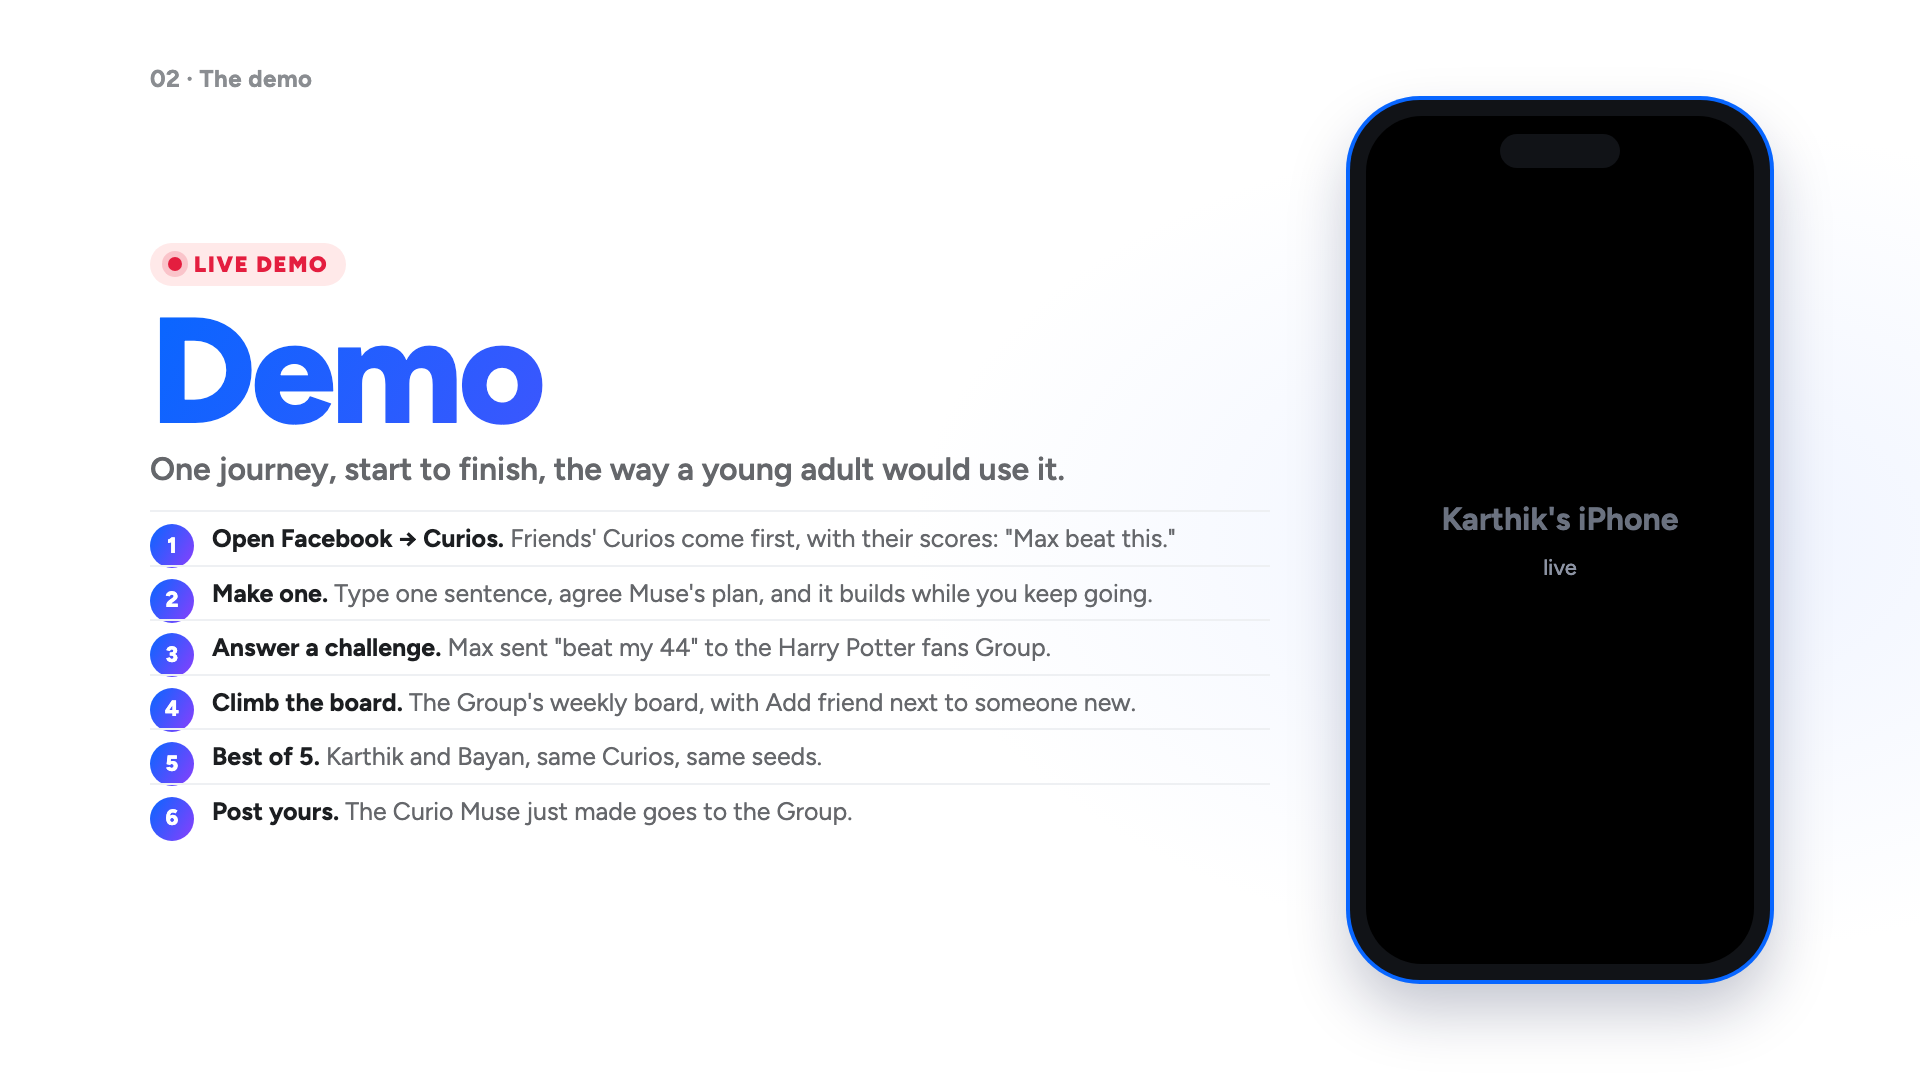
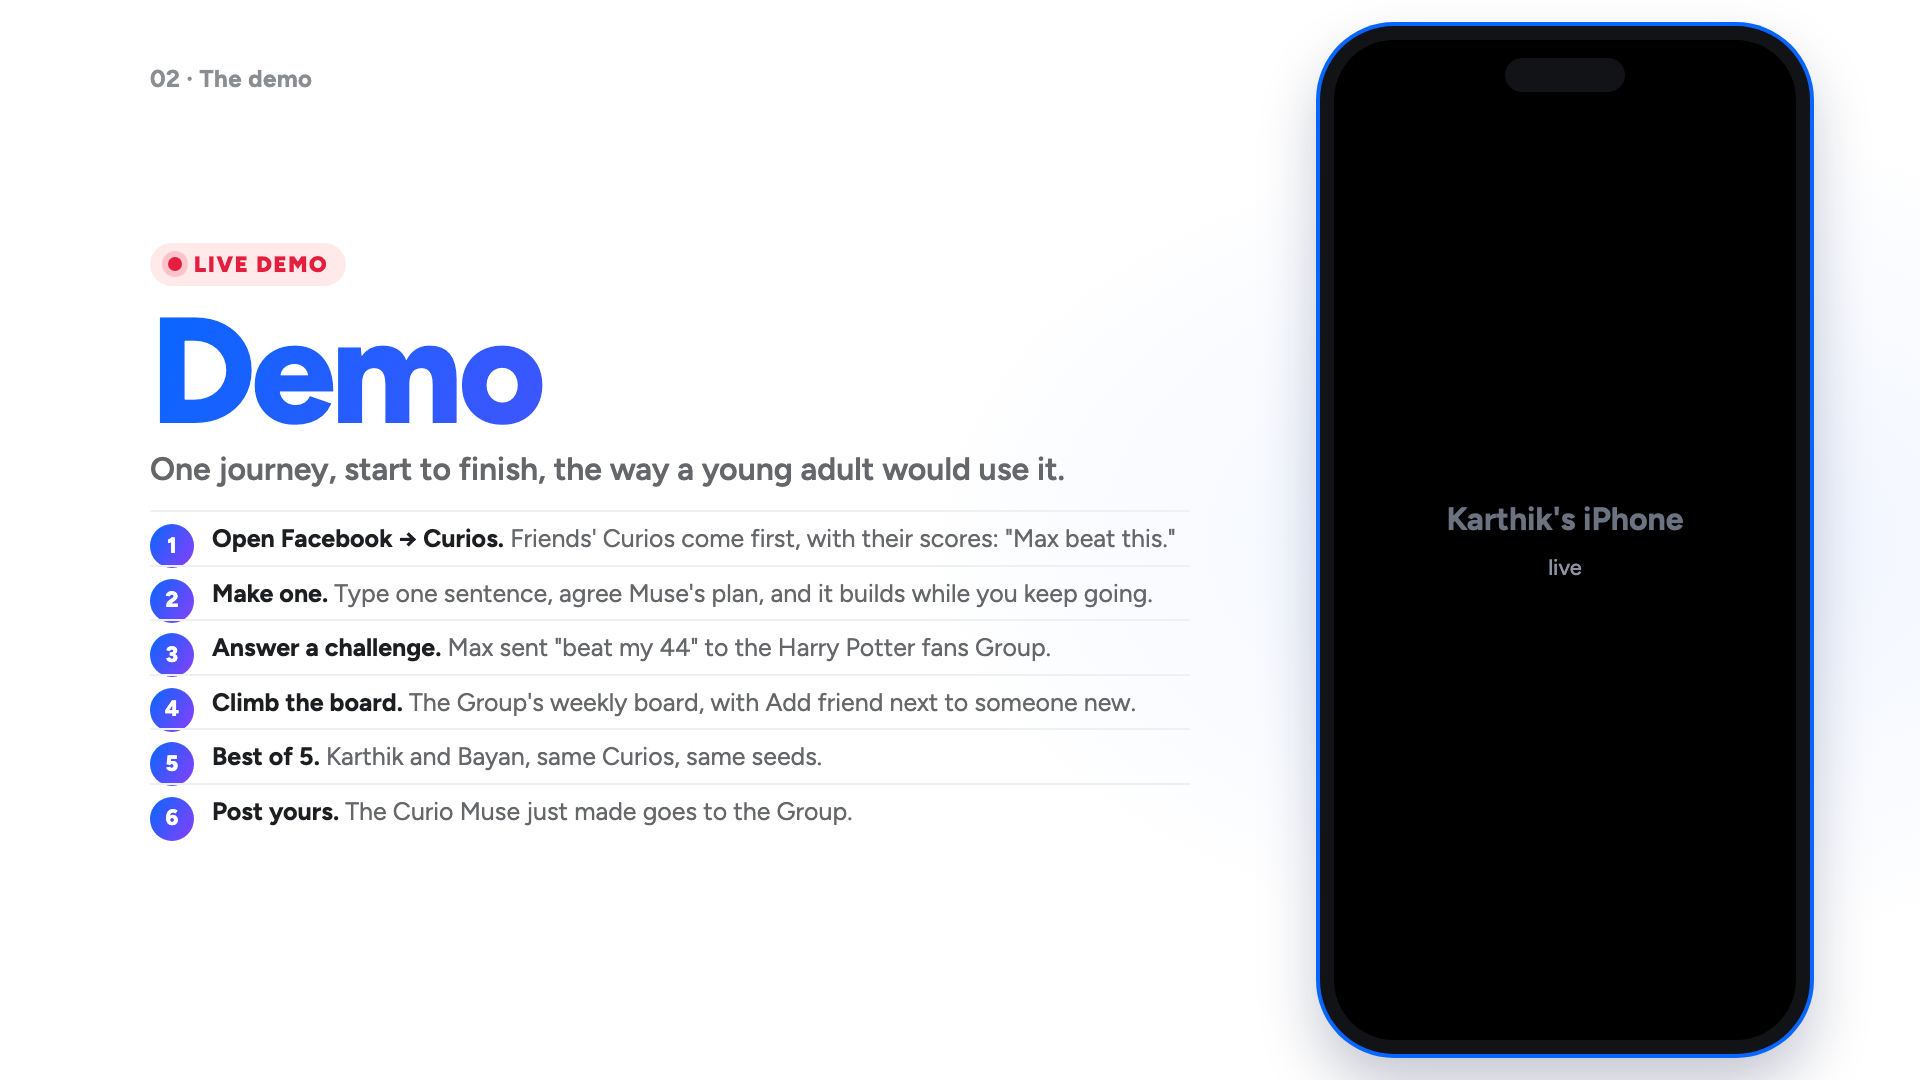
Slides 10 and 11: phones nearly full slide height (screens 462x1000) so the live feed is readable

Changed region(s): [[0.6875, 0.0, 0.9688, 1.0], [0.75, 0.4583, 0.875, 0.4889]]

diff --git a/docs/pr/slides/deck.html b/docs/pr/slides/deck.html
@@ -667,6 +667,23 @@ h2 { font-size: 96px; line-height: 1.04; font-weight: 800; letter-spacing: -.025
 .collab .bo5 { width: 96px; padding-top: 220px; } .collab .crow { gap: 34px; } .collab .cgrid { column-gap: 20px; }
 .collab .cf { padding: 12px 16px; } .collab .cf b { font-size: 24px; } .collab .cf p { font-size: 19px; } .collab .cf .chip { font-size: 13px; }
 .collab .bo5 { width: 104px; } .collab .bo5 em { font-size: 16px; white-space: nowrap; } .collab .bo5 i { font-size: 13px; }
+
+/* phones as big as the slide allows (screen 462x1000, aspect 0.462 like the iPhone feed) */
+.demo .dph { position: absolute; right: 110px; top: 26px; }
+.dph .iph.big { width: 490px !important; height: 1028px !important; padding: 14px !important; border-radius: 74px !important; position: relative; }
+.dph .iph.big .scr { border-radius: 60px !important; }
+.demo .dsteps { flex: none; width: 1040px; }
+.collab .duo { position: absolute; right: 40px; top: 26px; }
+.collab .duo .phn { width: 490px; } .collab .duo .lp.iph { width: 490px !important; height: 1028px !important; padding: 14px !important; border-radius: 74px !important; }
+.collab .duo .iph .scr { border-radius: 60px !important; } .collab .duo .iph .di { width: 120px; height: 34px; top: 18px; }
+.collab .duo figcaption { display: none; }
+.collab .bo5 { width: 104px; padding-top: 300px; } .collab .bo5 em { white-space: normal; font-size: 16px; } .collab .bo5 i { font-size: 13px; }
+.collab .bo5 .who { font-style: normal; font-size: 15px; font-weight: 800; color: var(--ink); text-align: center; line-height: 1.15; }
+.collab .bo5 .who.a { color: var(--blue); margin-bottom: 18px; } .collab .bo5 .who.b { color: var(--violet); margin-top: 18px; }
+.collab h2 { font-size: 58px; width: 620px; line-height: 1.08; }
+.collab .crow { margin-top: 30px; } .collab .cgrid { flex: none; width: 620px; column-gap: 16px; row-gap: 10px; }
+.collab .ccol { gap: 10px; } .collab .ch { font-size: 22px; }
+.collab .cf { padding: 10px 12px; border-left-width: 6px; } .collab .cf b { font-size: 21px; } .collab .cf p { font-size: 16px; margin-top: 4px; } .collab .cf .chip { font-size: 12px; padding: 2px 7px; margin-left: 0; display: inline-block; vertical-align: 2px; }
 </style>
 </head>
 <body>
@@ -832,7 +849,7 @@ h2 { font-size: 96px; line-height: 1.04; font-weight: 800; letter-spacing: -.025
     </div>
     <div class="ccr duo">
       <figure class="phn a"><div class="lp iph"><div class="scr" id="lpscr"><i class="di"></i>Karthik<br><small>live</small></div></div><figcaption><b>Karthik</b>Karthik's phone</figcaption></figure>
-      <div class="bo5"><em>Best of 5</em><span class="r"></span><span class="r"></span><span class="r"></span><span class="r"></span><span class="r"></span><i>same Curios, same seeds</i></div>
+      <div class="bo5"><b class="who a">&larr; Karthik</b><em>Best of 5</em><span class="r"></span><span class="r"></span><span class="r"></span><span class="r"></span><span class="r"></span><i>same Curios, same seeds</i><b class="who b">Bayan &rarr;</b></div>
       <figure class="phn b"><div class="lp iph"><div class="scr" id="lpscr2"><i class="di"></i>Bayan<br><small>live</small></div></div><figcaption><b>Bayan</b>Bayan's phone</figcaption></figure>
     </div>
   </div>

diff --git a/docs/pr/demo/PHONES.md b/docs/pr/demo/PHONES.md
@@ -74,7 +74,7 @@ xcrun devicectl device install app --device <phone-udid> \
 1. Before opening Keynote: unlock both phones, plug both in, and tap **Trust** on each if asked (only the first time on a given Mac).
 2. Give Keynote camera access if macOS asks (System Settings → Privacy & Security → Camera → Keynote). An iPhone screen counts as a camera.
 3. Slide 10 has one Live Video box (Karthik's phone); slide 11 has two (Karthik's, then Bayan's). For each box: Format sidebar → Live Video → Source → pick the phone **by its name** ("Karthik-iPhone", Bayan's shows up as "iPhone"). Renaming Bayan's phone (Settings → General → About → Name) makes this harder to mix up.
-4. A full Keynote rebuild (`../slides/keynote/build.sh`) drops the Live Video boxes. Insert them again, then run `osascript ../slides/keynote/snap-phones.applescript` to snap them into the phone frames.
+4. A full Keynote rebuild (`../slides/keynote/build.sh`) drops the Live Video boxes. Insert them again, then run `osascript ../slides/keynote/snap-phones.applescript` to snap them into the phone frames. Every phone screen is 462×1000 at y 40, nearly the full slide height so the audience can read it: slide 10 at x 1334; slide 11 at x 810 (Karthik) and x 1404 (Bayan).
 5. Play the slideshow once with both phones on, and check that both boxes move live on slide 11.
 
 ### QuickTime (the fallback, tested)
